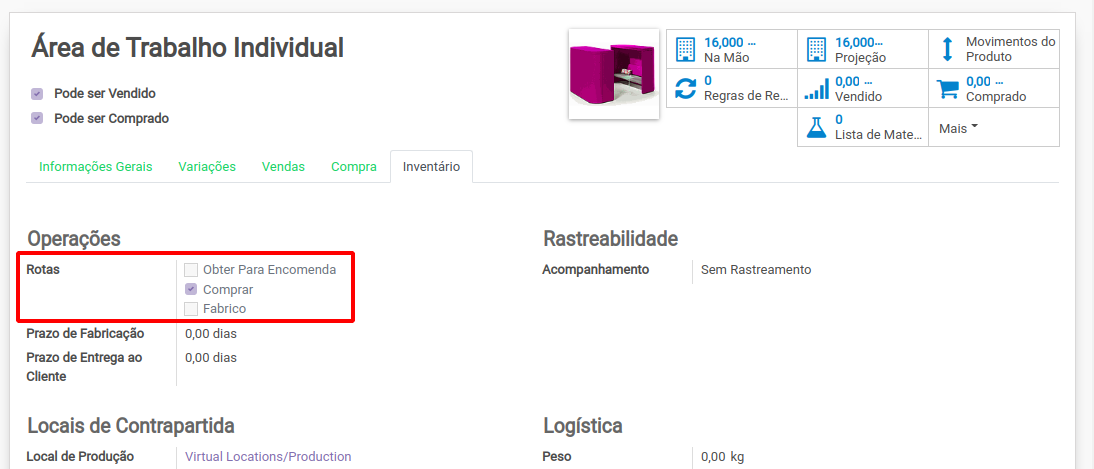
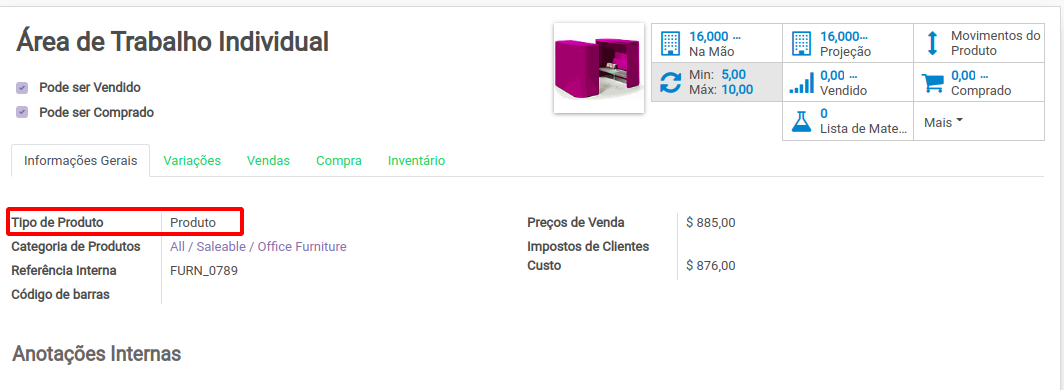
GitBook: [pt] one page and 2 assets modified

diff --git a/inventario/rotas-de-fornecimento-de-produtos.md b/inventario/rotas-de-fornecimento-de-produtos.md
@@ -10,7 +10,11 @@ Com os módulos principais de Odoo \(_Venda_, _Compra_, _Inventário_ e _Manufat
 
 ![](../.gitbook/assets/image%20%28219%29.png)
 
-É muito importante entender a diferença entre as rotas que determinam **COMO** será realizado o ajuste de estoque e as rotas que determinam **QUANDO** será realizado esse ajuste.
+{% hint style="info" %}
+Obviamente, para se tratar de "quantidade de produto", o produto deve ser de **tipo "Produto"** \(e não "Consumível" nem "Serviço"\) para poder seguir o seu estoque.
+{% endhint %}
+
+Antes de tudo é muito importante entender que existe uma diferença entre as rotas que determinam **COMO** será realizado o ajuste de estoque e as rotas que determinam **QUANDO** será realizado esse ajuste.
 
 As opções "_Comprar_" e "_Fabrico_" determinam **COMO será aumentado** a quantidade do produto :
 
@@ -32,13 +36,15 @@ Apesar do que o nome pode sugerir uma _Regra de Recompra_ não ativa necessariam
 Pode ativar uma "**fabricação**" do produto ou qualquer outra maneira de fornecimento definida pela Rota que indica "COMO" será aumentada essa quantidade de produto.
 {% endhint %}
 
-## "Compra" vs "Fabrico"
+## "Comprar" vs "Fabrico"
 
 Para que a rota "_Compra_" seja operacional, necessita pelo menos informar um fornecedor na aba "Compra" do produto :
 
 ![](../.gitbook/assets/image%20%28213%29.png)
 
-Do outro lado, para que a rota "Fabrico" seja operacional é necessário definir uma "Lista de Material" associada ao produto :
+Do outro lado, para que a rota "Fabrico" seja operacional é necessário definir pelo menos uma "Lista de Material" associada ao produto :
 
 ![](../.gitbook/assets/image%20%28215%29.png)
+
+
 
